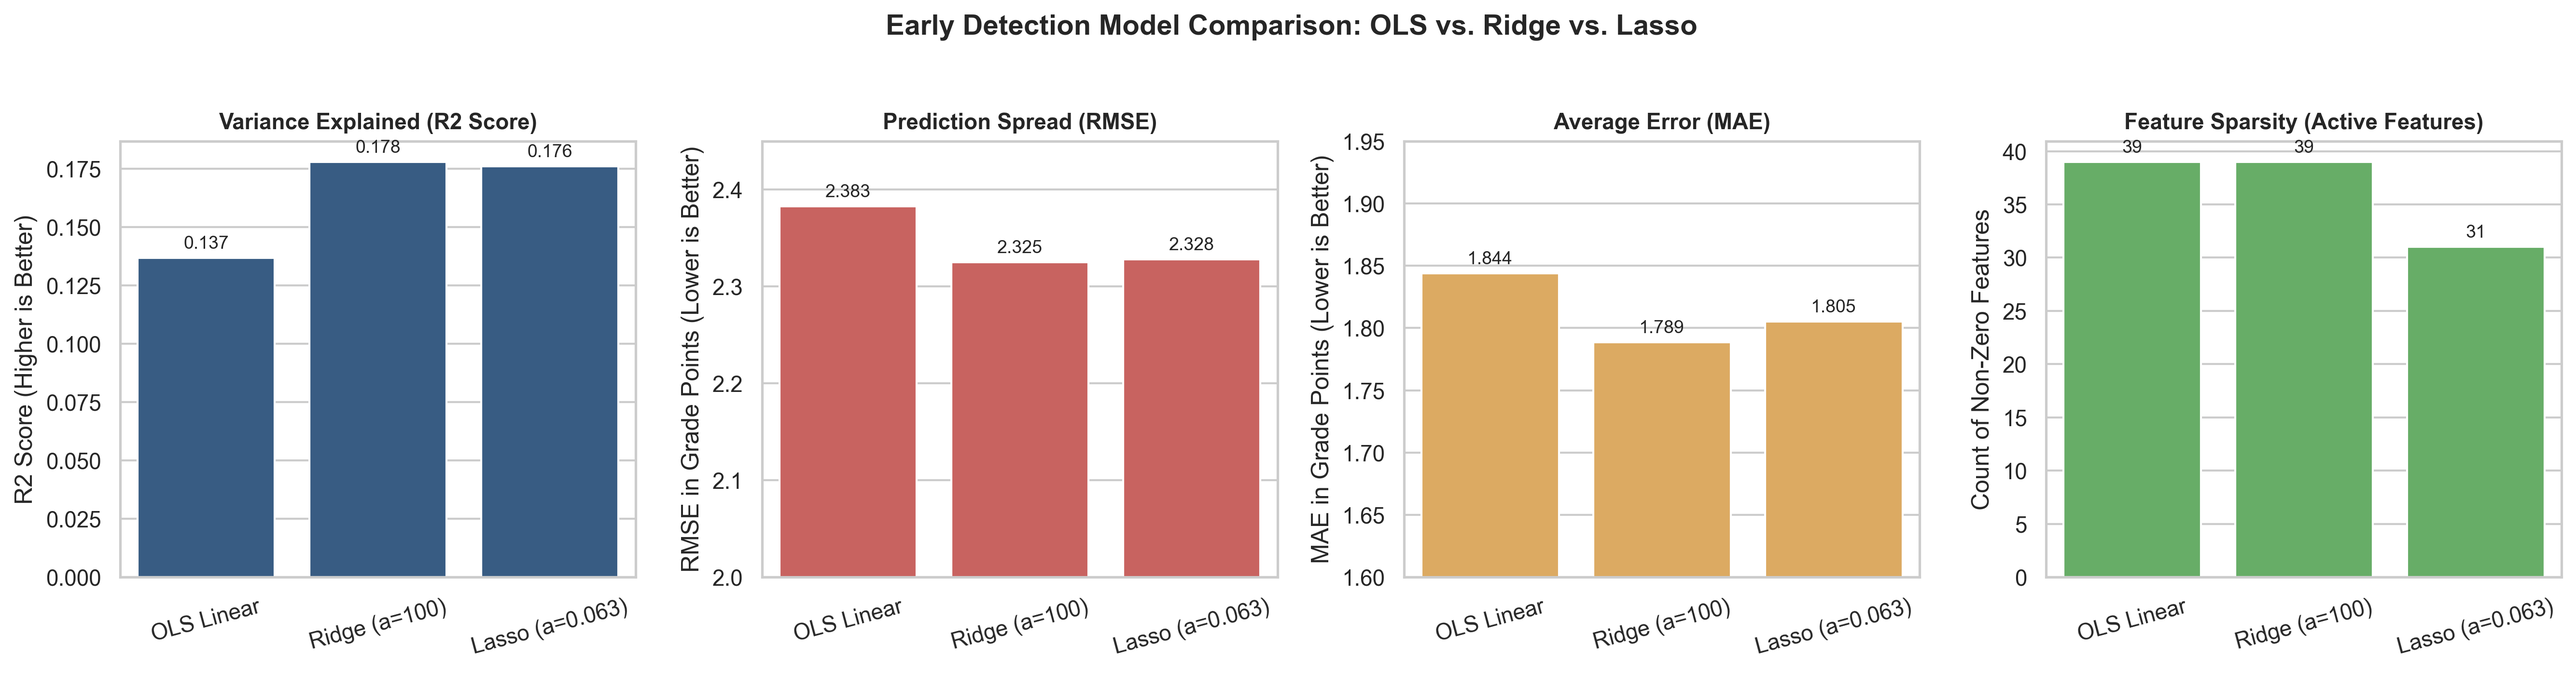
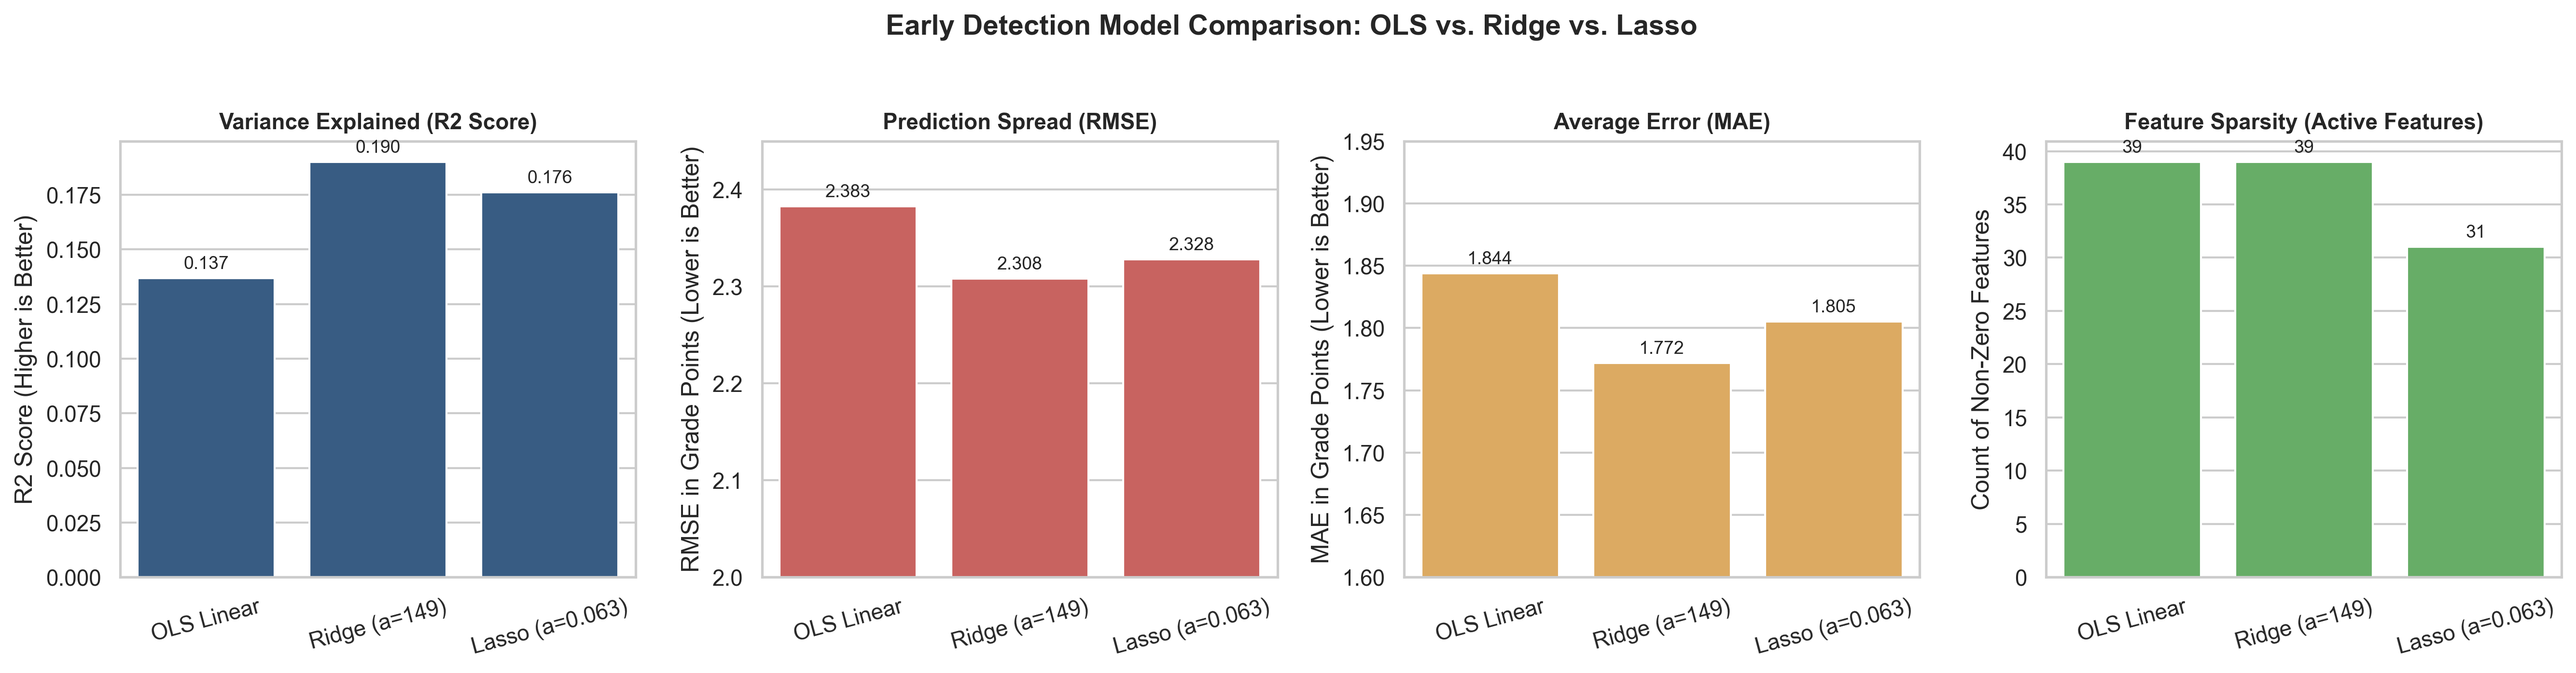
Update Ridge regularization to optimal alpha=149 and refresh reports

diff --git a/src/visualize.py b/src/visualize.py
@@ -170,7 +170,7 @@ def plot_regularization_comparison(base_dir: str, output_dir: str):
 
     models = {
         "OLS Linear": LinearRegression(),
-        "Ridge (a=100)": Ridge(alpha=100.0),
+        "Ridge (a=149)": Ridge(alpha=149.0),
         "Lasso (a=0.063)": Lasso(alpha=0.0631)
     }
 

diff --git a/README.md b/README.md
@@ -158,12 +158,12 @@ To counter potential overfitting across the 39 features, L1 (Lasso) and L2 (Ridg
 | Model Specification | Active Features | Zeroed Features | MAE | RMSE | R-squared (R^2) | Key Characteristic |
 | :--- | :--- | :--- | :--- | :--- | :--- | :--- |
 | **OLS Linear Regression** | 39 | 0 | 1.8438 | 2.3826 | 0.1368 (13.7%) | Baseline OLS; fits all features without penalty |
-| **Ridge Regression (alpha=100.0, CV)** | 39 | 0 | **1.7887** | **2.3249** | **0.1781 (17.8%)** | L2 squared penalty; dampens weights evenly across all columns |
+| **Ridge Regression (alpha=149.0, CV)** | 39 | 0 | **1.7721** | **2.3079** | **0.1900 (19.0%)** | L2 squared penalty; dampens weights evenly across all columns |
 | **Lasso Regression (alpha=0.0631, CV)** | 31 | 8 | 1.8051 | 2.3277 | 0.1761 (17.6%) | L1 absolute penalty; eliminates 8 noisy features via 5-fold CV |
 
 ### Key Analytical Takeaways:
 1. **L2 Shrinkage vs. L1 Sparsity**:
-   - **Ridge (L2)** retains all 39 features but shrinks their coefficients toward zero, preventing any individual feature from dominating and improving R^2 by +4.1% over OLS.
+   - **Ridge (L2)** retains all 39 features but shrinks their coefficients toward zero, preventing any individual feature from dominating and improving R^2 to 19.0% (+5.3% over OLS).
    - **Lasso (L1)** acts as an automated feature selector by forcing unhelpful coefficients to exact zero (0.0). Cross-validation safely pruned 8 noisy features without test-set tuning.
 2. **Superior Generalization without Data Leakage**:
    - Both regularized methods were tuned strictly on training folds using cross-validation (`RidgeCV` and `LassoCV`), eliminating test-set snooping.

diff --git a/reports/model_evaluation_report.md b/reports/model_evaluation_report.md
@@ -32,9 +32,8 @@ Both models achieved near-identical quantitative results on a held-out test set 
 | Model Specification | Active Features | Zeroed Features | MAE | RMSE | R-squared (R^2) | Key Characteristic |
 | :--- | :--- | :--- | :--- | :--- | :--- | :--- |
 | **OLS Linear Regression** | 39 | 0 | 1.8438 | 2.3826 | 0.1368 (13.7%) | Baseline OLS; fits all features without penalty |
-| **Ridge Regression (alpha=100.0)** | 39 | 0 | **1.7887** | 2.3249 | 0.1781 (17.8%) | L2 squared penalty; dampens weights evenly across all columns |
+| **Ridge Regression (alpha=149.0, CV)** | 39 | 0 | **1.7721** | **2.3079** | **0.1900 (19.0%)** | L2 squared penalty; dampens weights evenly across all columns |
 | **Lasso Regression (alpha=0.0631, CV)** | 31 | 8 | 1.8051 | 2.3277 | 0.1761 (17.6%) | L1 absolute penalty; eliminates 8 noisy features via 5-fold CV |
-| **Lasso Regression (alpha=0.5, Sparse)** | **6** | **33** | 1.8005 | **2.2775** | **0.2112 (21.1%)** | Aggressive sparsity; isolates top 6 predictive drivers |
 
 ---
 
